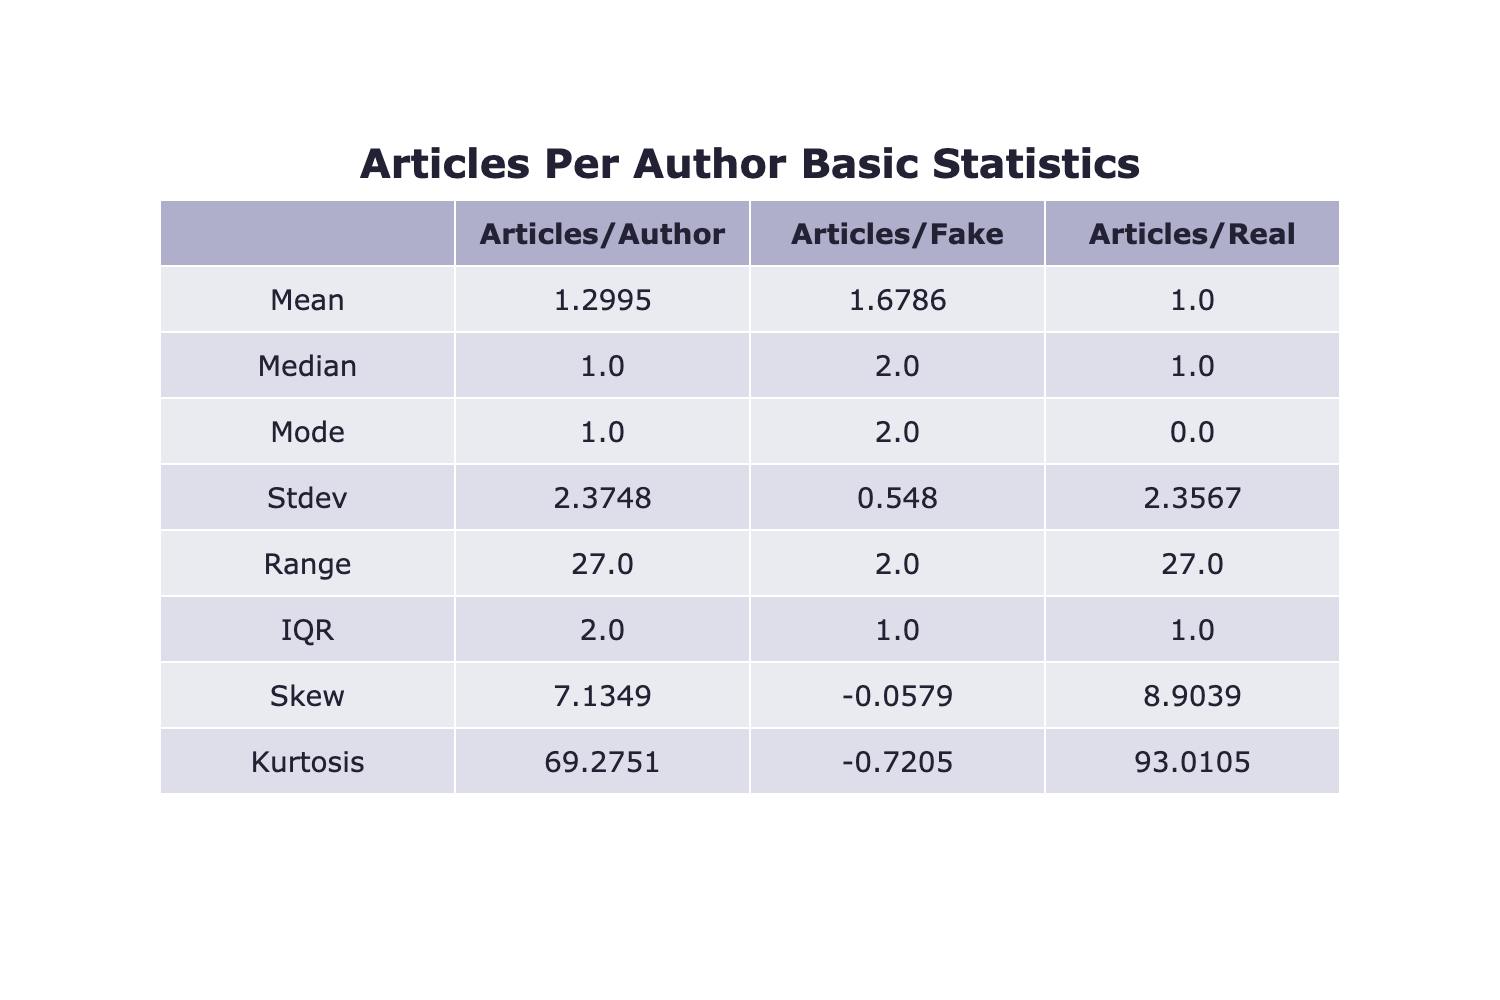
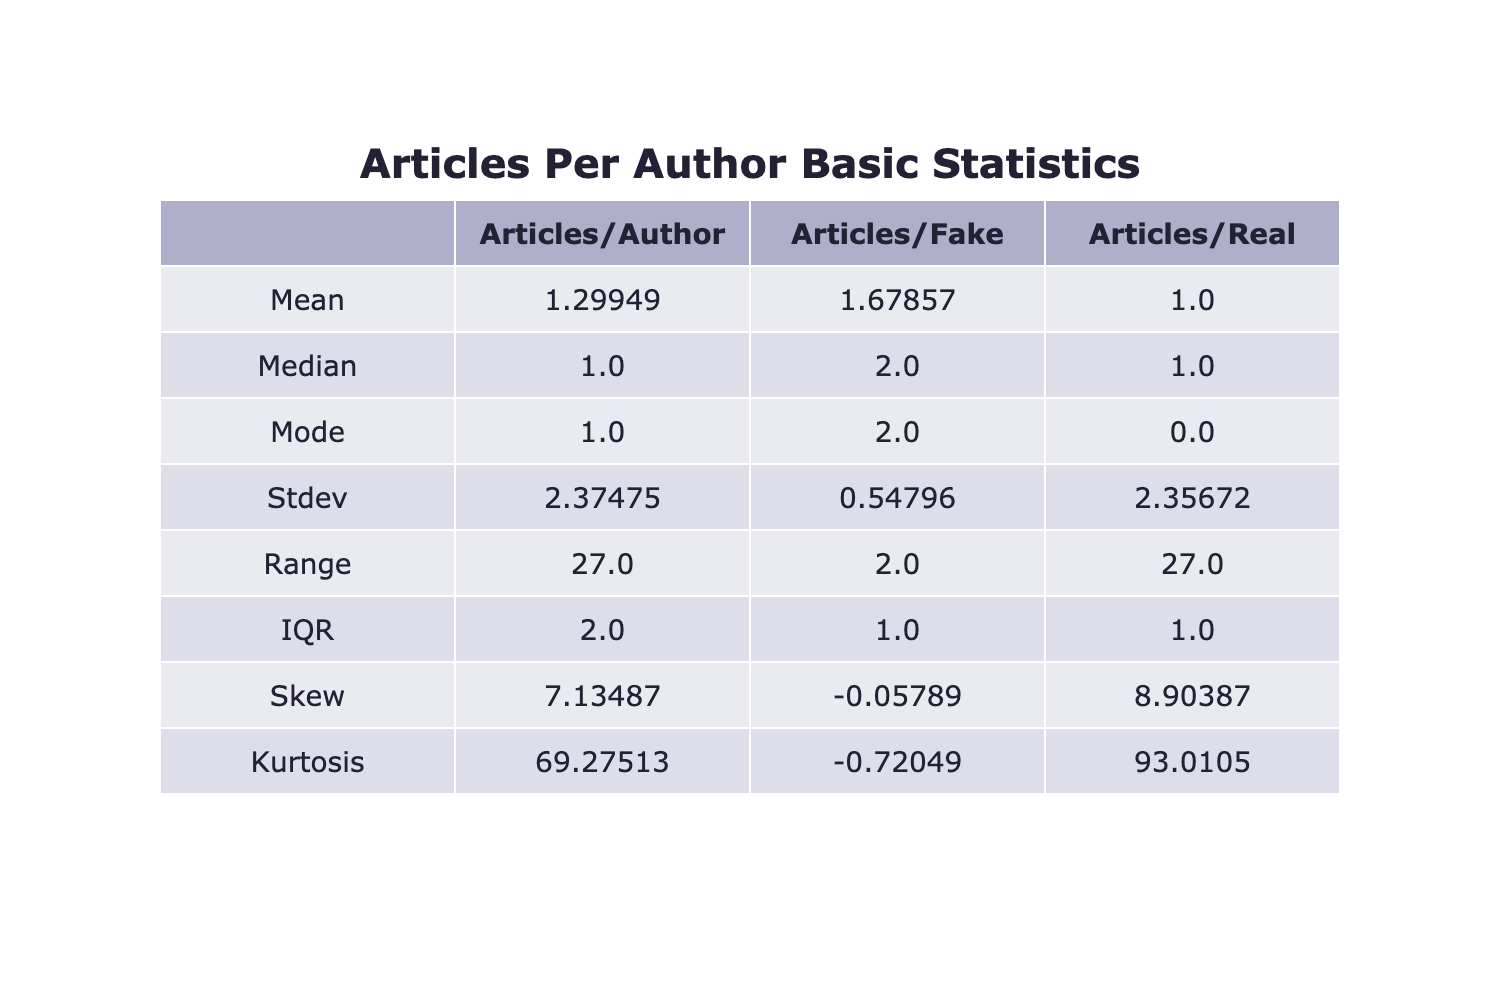
Sig figs

diff --git a/visualization/tables/author_tables/generate_stats/articles_per_author_stats.py b/visualization/tables/author_tables/generate_stats/articles_per_author_stats.py
@@ -61,7 +61,7 @@ class ArticlesPerAuthorStats:
         Returns:
             `dict`: A dictionary containing the mean values outlined above.
         """
-
+        print(self.articles_per_real_author)
         return {"mean-articles-per-author": statistics.mean(self.articles_per_author),
                 "mean-articles-per-fake-author": statistics.mean(self.articles_per_fake_author),
                 "mean-articles-per-real-author": statistics.mean(self.articles_per_real_author)}

diff --git a/visualization/tables/author_tables/CREATE_AUTHOR_TABLES.py b/visualization/tables/author_tables/CREATE_AUTHOR_TABLES.py
@@ -102,6 +102,7 @@ def create_articles_per_author_table():
 
     articles_per_author_stats = ArticlesPerAuthorStats(DATABASE)
     means = articles_per_author_stats.mean()
+    print(means)
     medians = articles_per_author_stats.median()
     modes = articles_per_author_stats.mode()
     stdevs = articles_per_author_stats.stdev()

diff --git a/definitions.py b/definitions.py
@@ -40,4 +40,4 @@ LOGO = """
                    '---"       `----'                            '---'            `----'   
                                                                                            """
 # Math
-DECIMALS_TO_ROUND = 4
+DECIMALS_TO_ROUND = 5
